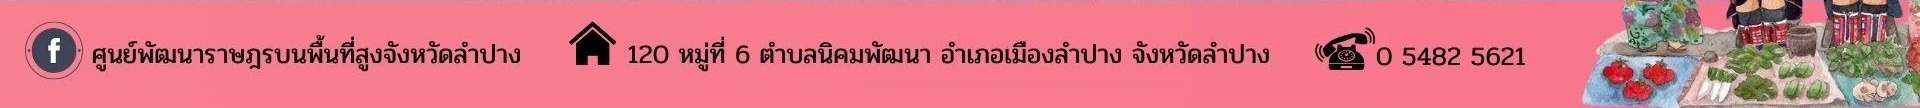
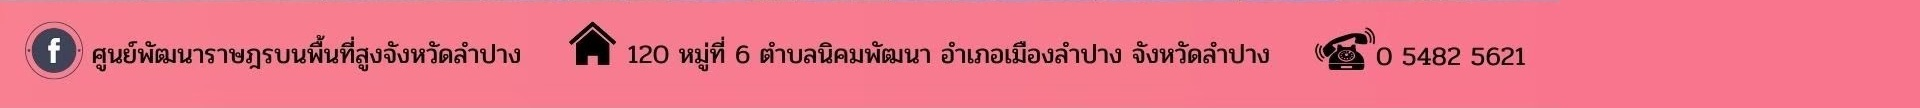
Complete layout 4 footer illustration

Changed region(s): [[0.8125, 0.0, 1.0, 1.0]]

diff --git a/index.html b/index.html
@@ -1022,7 +1022,7 @@
 
       // DOM elements
       const spriteImg = document.getElementById('brand-sprite-img');
-      const overlayAssets = ['ministry.png', 'welfare.png', 'footer.jpg'].map((name) => {
+      const overlayAssets = ['ministry.png', 'welfare.png', 'footer.jpg', 'illustration.png'].map((name) => {
         const image = new Image();
         image.onload = () => { if (state.layout === 4) drawCanvas(false); };
         image.src = 'assets/layout4/' + name;
@@ -1271,7 +1271,7 @@
           ctx.font = '600 34px "Prompt", "Sarabun", sans-serif';
           ctx.fillText('คลิกเพื่ออัปโหลดภาพพื้นหลัง', 960, 460); ctx.restore();
         }
-        const [ministry, welfare, footer] = overlayAssets;
+        const [ministry, welfare, footer, illustration] = overlayAssets;
         if (ministry.complete && ministry.naturalWidth) ctx.drawImage(ministry, 36, 14, 140, 140);
         if (welfare.complete && welfare.naturalWidth) ctx.drawImage(welfare, 1655, 12, 240, 180);
         ctx.save(); ctx.textAlign = 'left'; ctx.textBaseline = 'top';
@@ -1283,6 +1283,7 @@
         ctx.restore();
         if (footer.complete && footer.naturalWidth) ctx.drawImage(footer, 0, 972, 1920, 108);
         else { ctx.fillStyle = '#f77e96'; ctx.fillRect(0, 972, 1920, 108); }
+        if (illustration.complete && illustration.naturalWidth) ctx.drawImage(illustration, 1560, 805, 360, 275);
 
         ctx.save(); ctx.textAlign = 'center'; ctx.textBaseline = 'middle'; ctx.lineJoin = 'round';
         const available = 280, width = 1640;
